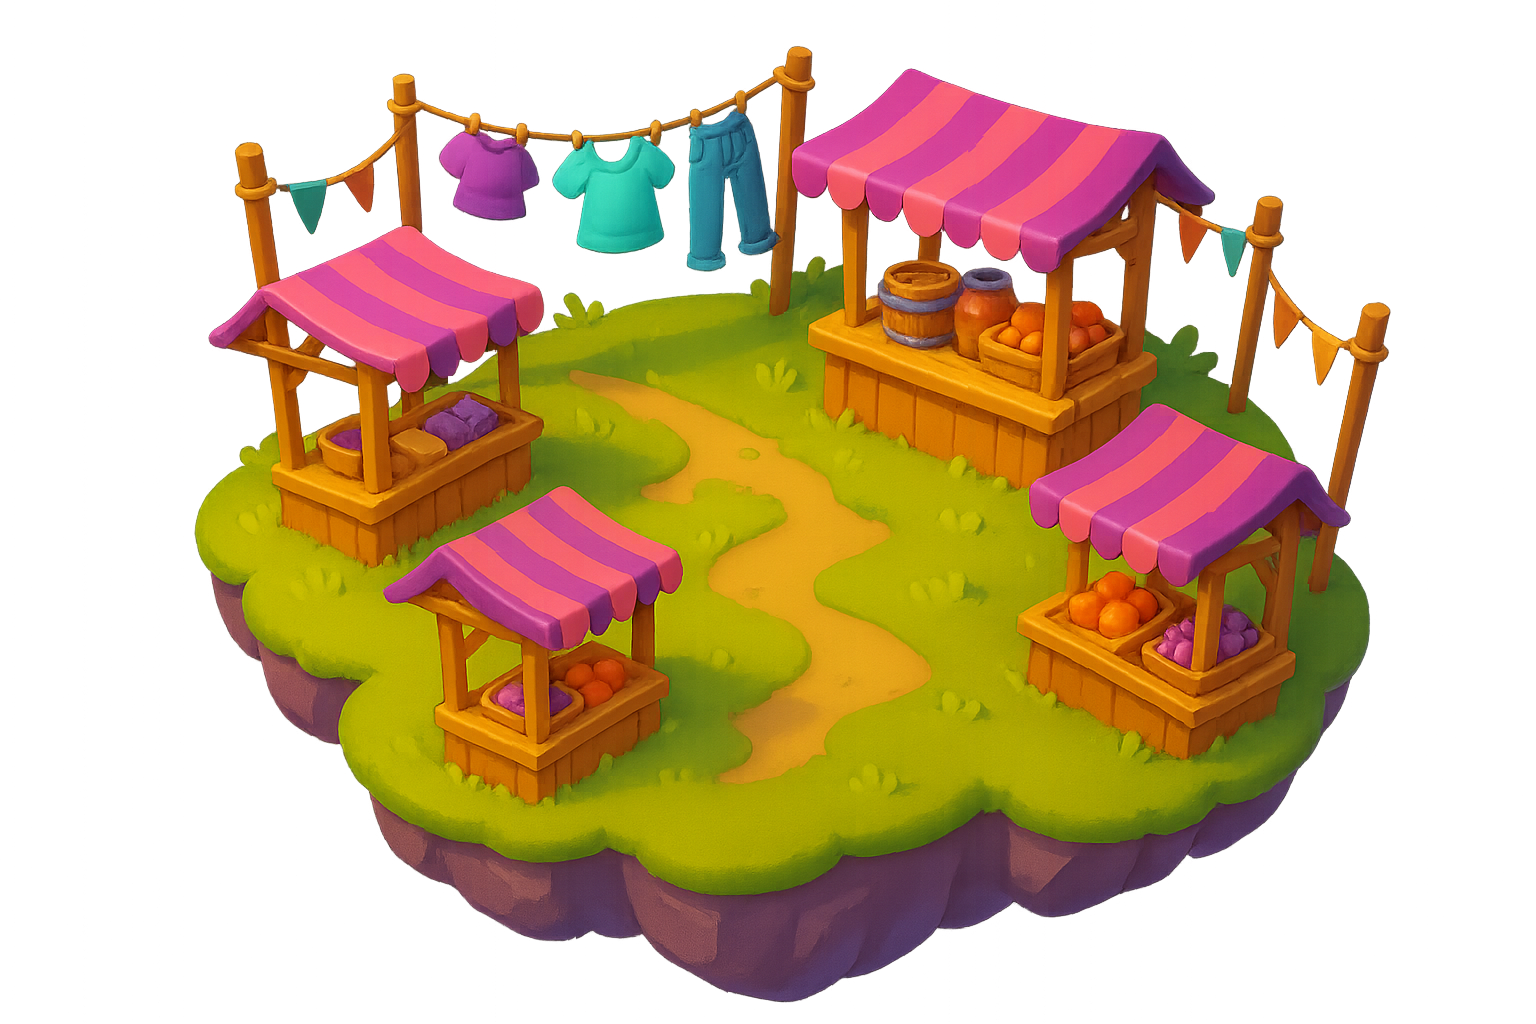
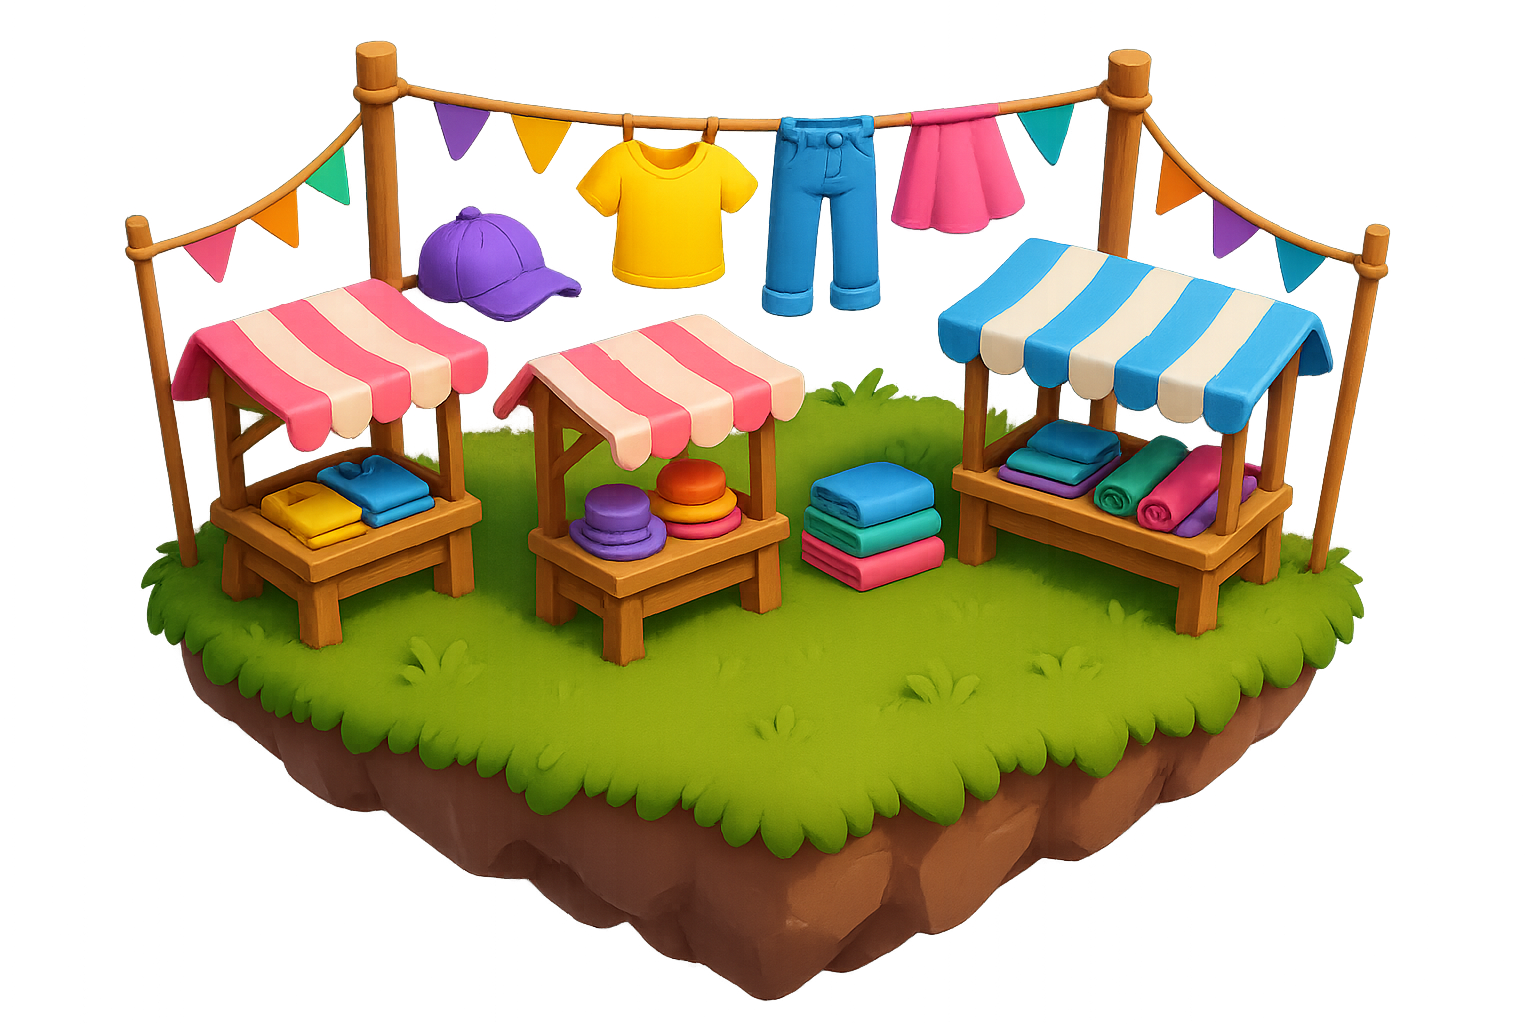
Сгенерировать все картинки карты и нарезать пергамент на 4 обрывка
Семь картинок по промптам из docs/WowSpeak_карта_ТЗ.md §3, стиль утверждён
Анной на пробе острова 1. Скрипты генерации и нарезки положены в tools/,
чтобы картинку можно было переснять, не собирая промпт заново.

Правки промптов против исходных — по факту несоответствия результата:
- остров 1: вещи на верёвке перечислены по порядку, иначе юбка пропадала;
  прилавкам явно запрещена еда;
- общий блок островов: низ острова описан как скала, иначе выходила плоская
  земляная лепёшка;
- остров 3: добавлено требование насыщенных цветов, первая версия вышла блёклой;
- пергамент: роза ветров без букв (генератор подписывал N/W/E/S) и ровно
  четыре острова одной цепочкой.

Праздничный замок сделан правкой закрытого через /v1/images/edits — только так
оба состояния совпадают по масштабу и силуэту.

Обрывки пергамента лежат на полном холсте 1024x1024: наложенные друг на друга
в одной позиции они сходятся пиксель в пиксель, проверено — 0 дырок.

Claude-Session: https://claude.ai/code/session_01F8Ku32rN8SvpondWNMohMi

diff --git a/tools/gen_map_images.py b/tools/gen_map_images.py
@@ -1,0 +1,158 @@
+#!/usr/bin/env python3
+"""Генерация картинок карты «Волшебная страна» через OpenAI Images API.
+
+Промпты — из docs/WowSpeak_карта_ТЗ.md §3. Блок стиля во всех островах
+дословно одинаковый: стиль утверждён Анной на пробе острова 1, менять нельзя.
+Правки допустимы только в описании содержания сцены.
+
+Запуск:  OPENAI_API_KEY=... python3 tools/gen_map_images.py [ключ ...]
+Без аргументов — генерирует всё.
+"""
+import base64, json, os, sys, urllib.error, urllib.request
+from concurrent.futures import ThreadPoolExecutor
+
+# Утверждённый стиль островов — не редактировать.
+ISLAND_STYLE = ("Same floating chunk of earth with grass on top and rock underneath: "
+    "the thick rocky underside is clearly visible below the grass, chunky jagged rock "
+    "tapering downwards to a point, the whole island floating in mid-air. "
+    "Same three-quarter top-down view and top-left lighting. "
+    "Bright 3D rendered cartoon style, Pixar-like, soft rounded glossy shapes, "
+    "vivid saturated colors - violet, pink, gold, turquoise. ")
+NO_TEXT = "No text, no letters, no signs, no numbers, no labels. "
+
+JOBS = {
+    "island-1-fair": dict(size="1536x1024", transparent=True, prompt=(
+        "A small floating fantasy market island: striped awnings, wooden stalls, bunting flags. "
+        "A washing line strung between two wooden poles crosses the island, and colourful "
+        "triangular bunting flags are strung beside it. Four garments hang from the line in a "
+        "row, left to right: first a purple baseball cap, second a yellow T-shirt, third blue "
+        "jeans, and fourth, at the right-hand end of the line, a pink skirt - a short flared "
+        "skirt shaped like a bell, narrow at the waist and wide at the hem, with no legs, "
+        "clearly not trousers. Four garments hanging, not three. "
+        "The stalls display only clothing - folded shirts, stacked hats, rolls of colourful fabric. "
+        "Absolutely no food on the stalls: no fruit, no oranges, no vegetables, no jars, no barrels. "
+        "The island sits on a chunk of earth, grass on top, rough rock underneath, floating in the air. "
+        "Three-quarter top-down view, lighting from the top-left. " + ISLAND_STYLE
+        + NO_TEXT + "No people. Transparent background.")),
+
+    "island-2-mirrors": dict(size="1536x1024", transparent=True, prompt=(
+        "A small floating fantasy island with tall ornate standing mirrors in golden frames "
+        "among soft grass and glowing crystals, sparkling reflections. " + ISLAND_STYLE
+        + NO_TEXT + "No people. Transparent background.")),
+
+    "island-3-friends": dict(size="1536x1024", transparent=True, prompt=(
+        "A small floating fantasy island: a cosy green hill with a treehouse, two small round huts, "
+        "a picnic blanket and a flower meadow. Deep saturated colours: rich green grass, "
+        "a bright pink-and-white checked blanket, a lush violet tree canopy, glossy toy-like "
+        "surfaces with crisp highlights - not pale, not washed out, not painterly. " + ISLAND_STYLE
+        + NO_TEXT + "No people. Transparent background.")),
+
+    "island-4-castle-closed": dict(size="1536x1024", transparent=True, prompt=(
+        "A small floating fantasy castle island: a fairytale castle with pink and violet towers "
+        "and golden roofs, tall closed wooden gates, a winding path leading up to them. "
+        + ISLAND_STYLE + NO_TEXT + "No people, no dragon. Transparent background.")),
+
+    "island-4-castle-festive": dict(size="1536x1024", transparent=True, prompt=(
+        "The same fairytale castle island, now celebrating: the tall gates are wide open with warm "
+        "golden light pouring out, festive garlands and glowing lanterns strung between the towers, "
+        "confetti and sparkles in the air, small fireworks above the roofs. Same pink and violet "
+        "towers with golden roofs, same floating rock island with grass underneath, same "
+        "three-quarter top-down view, same top-left lighting, same scale as the closed castle. "
+        "Bright 3D rendered cartoon style, Pixar-like, glossy soft shapes, vivid saturated colors. "
+        + NO_TEXT + "No characters, no dragon. Transparent background.")),
+
+    "map-background": dict(size="1024x1536", transparent=False, prompt=(
+        "Children's storybook background, empty scene with no objects: a calm turquoise magical sea "
+        "with soft foam swirls, scattered fluffy white clouds, tiny sparkles and stars, warm golden "
+        "light from the top. Bright 3D rendered cartoon style, Pixar-like, soft glossy shapes, "
+        "vivid saturated colors - turquoise, violet, pink, gold. Lots of open empty space in the "
+        "middle of the composition. " + NO_TEXT
+        + "No characters, no buildings, no islands. Vertical, aspect ratio 2:3.")),
+
+    "parchment-map": dict(size="1024x1024", transparent=False, prompt=(
+        "An old treasure map on warm parchment, drawn in a soft children's cartoon style: "
+        "a turquoise sea containing exactly four islands and nothing else - no extra islets, no "
+        "sandbanks, no rocks, four landmasses in total, counted as one, two, three, four. "
+        "A single dotted trail links them in one chain: it starts at the first island, passes "
+        "through the second and the third and ends at the fourth, and every island is touched "
+        "by the trail. The fourth and last island carries a castle. "
+        "a compass rose in one corner, tiny waves and a whale spout. The compass rose is drawn as "
+        "a plain eight-pointed star with no letters and no initials on or around it. "
+        "Warm cream and beige parchment with soft brown ink and gentle watercolour tints of "
+        "turquoise, pink and gold. Flat top-down illustration, even lighting, no drop shadows. "
+        "The illustration bleeds off all four edges of the square: the sea reaches every edge, "
+        "with no border, no frame, no outline and no empty margin around the drawing. "
+        + NO_TEXT + "No writing of any kind anywhere in the image, not even on the compass. "
+        "Square, aspect ratio 1:1.")),
+}
+
+OUT_DIR = os.path.join(os.path.dirname(os.path.dirname(os.path.abspath(__file__))), "assets", "map")
+
+
+def generate(key):
+    job = JOBS[key]
+    body = {"model": "gpt-image-1", "prompt": job["prompt"], "size": job["size"],
+            "quality": "high", "output_format": "png", "n": 1}
+    if job["transparent"]:
+        body["background"] = "transparent"
+    req = urllib.request.Request("https://api.openai.com/v1/images/generations",
+        data=json.dumps(body).encode(),
+        headers={"Authorization": "Bearer " + os.environ["OPENAI_API_KEY"],
+                 "Content-Type": "application/json"})
+    try:
+        r = json.load(urllib.request.urlopen(req, timeout=900))
+    except urllib.error.HTTPError as e:
+        return key, "ОШИБКА HTTP %s: %s" % (e.code, e.read().decode()[:300])
+    path = os.path.join(OUT_DIR, key + ".png")
+    os.makedirs(OUT_DIR, exist_ok=True)
+    with open(path, "wb") as f:
+        f.write(base64.b64decode(r["data"][0]["b64_json"]))
+    return key, "готово: %s (%.1f МБ)" % (path, os.path.getsize(path) / 1e6)
+
+
+FESTIVE_EDIT_PROMPT = (
+    "Keep this exact castle island unchanged in shape, size, position, colours and art style - "
+    "the same pink and violet towers, the same grass, the same jagged rocky underside, the same "
+    "three-quarter top-down view and top-left lighting, the same glossy 3D cartoon look. "
+    "Only add a celebration: open the tall wooden gates wide so warm golden light pours out of the "
+    "doorway, string festive garlands and glowing lanterns between the towers, and add confetti, "
+    "sparkles and small fireworks in the air above the roofs. "
+    + NO_TEXT + "No characters, no dragon, no people. Keep the background fully transparent.")
+
+
+def edit_festive():
+    """Праздничный замок = закрытый замок + правка, чтобы остров совпал один в один."""
+    src = os.path.join(OUT_DIR, "island-4-castle-closed.png")
+    fields = {"model": "gpt-image-1", "prompt": FESTIVE_EDIT_PROMPT, "size": "1536x1024",
+              "quality": "high", "background": "transparent", "input_fidelity": "high", "n": "1"}
+    boundary = "----wowspeak" + base64.b16encode(os.urandom(8)).decode()
+    body = b""
+    for k, v in fields.items():
+        body += ("--%s\r\nContent-Disposition: form-data; name=\"%s\"\r\n\r\n%s\r\n"
+                 % (boundary, k, v)).encode()
+    body += ("--%s\r\nContent-Disposition: form-data; name=\"image\"; filename=\"castle.png\"\r\n"
+             "Content-Type: image/png\r\n\r\n" % boundary).encode()
+    body += open(src, "rb").read() + ("\r\n--%s--\r\n" % boundary).encode()
+    req = urllib.request.Request("https://api.openai.com/v1/images/edits", data=body,
+        headers={"Authorization": "Bearer " + os.environ["OPENAI_API_KEY"],
+                 "Content-Type": "multipart/form-data; boundary=" + boundary})
+    try:
+        r = json.load(urllib.request.urlopen(req, timeout=900))
+    except urllib.error.HTTPError as e:
+        return "island-4-castle-festive", "ОШИБКА HTTP %s: %s" % (e.code, e.read().decode()[:300])
+    path = os.path.join(OUT_DIR, "island-4-castle-festive.png")
+    with open(path, "wb") as f:
+        f.write(base64.b64decode(r["data"][0]["b64_json"]))
+    return "island-4-castle-festive", "готово: %s (%.1f МБ)" % (path, os.path.getsize(path) / 1e6)
+
+
+if __name__ == "__main__":
+    keys = sys.argv[1:] or list(JOBS)
+    if "festive" in keys:
+        print(*edit_festive()); sys.exit()
+    bad = [k for k in keys if k not in JOBS]
+    if bad:
+        sys.exit("неизвестные ключи: %s; доступны: %s" % (bad, list(JOBS)))
+    with ThreadPoolExecutor(max_workers=3) as pool:
+        for key, msg in pool.map(generate, keys):
+            print(key, "->", msg)

diff --git a/tools/cut_parchment.py b/tools/cut_parchment.py
@@ -1,0 +1,77 @@
+#!/usr/bin/env python3
+"""Нарезка пергамента на 4 обрывка с рваными краями (ТЗ §3).
+
+Куски режутся двумя рваными линиями — вертикальной и горизонтальной. Каждый кусок
+сохраняется на полном холсте 1024x1024, прозрачном вокруг обрывка: если положить
+все четыре друг на друга в одной позиции, карта сходится пиксель в пиксель.
+Seed фиксирован, повторный запуск даёт тот же результат.
+"""
+import os, random
+from PIL import Image, ImageDraw
+
+ROOT = os.path.dirname(os.path.dirname(os.path.abspath(__file__)))
+SRC = os.path.join(ROOT, "assets", "map", "parchment-map.png")
+NAMES = ["piece-1-tl", "piece-2-tr", "piece-3-bl", "piece-4-br"]
+
+
+def jagged(length, centre, rnd, step=14, amp=26, spike=9):
+    """Рваная линия: крупные зубцы плюс мелкие волокна бумаги."""
+    pts, pos, val = [], 0, centre
+    while pos < length:
+        val = max(centre - amp * 2, min(centre + amp * 2, val + rnd.uniform(-amp, amp)))
+        pts.append((pos, val + rnd.uniform(-spike, spike)))
+        pos += rnd.randint(step // 2, step)
+    pts.append((length, centre + rnd.uniform(-spike, spike)))
+    return pts
+
+
+def half_mask(size, vertical, rnd):
+    """Маска половины холста, отрезанной рваной линией (левая или верхняя)."""
+    w, h = size
+    m = Image.new("L", size, 0)
+    d = ImageDraw.Draw(m)
+    if vertical:
+        line = jagged(h, w / 2, rnd)
+        poly = [(0, 0)] + [(x, y) for y, x in line] + [(0, h)]
+    else:
+        line = jagged(w, h / 2, rnd)
+        poly = [(0, 0)] + list(line) + [(w, 0)]
+    d.polygon(poly, fill=255)
+    return m
+
+
+def main():
+    src = Image.open(SRC).convert("RGBA")
+    rnd = random.Random(20260916)
+    left = half_mask(src.size, True, rnd)
+    top = half_mask(src.size, False, rnd)
+    from PIL import ImageChops
+    right, bottom = ImageChops.invert(left), ImageChops.invert(top)
+    quadrants = [ImageChops.multiply(left, top), ImageChops.multiply(right, top),
+                 ImageChops.multiply(left, bottom), ImageChops.multiply(right, bottom)]
+    out_dir = os.path.join(ROOT, "assets", "map")
+    for name, mask in zip(NAMES, quadrants):
+        # края намеренно без размытия: маски соседних кусков строго дополняют друг друга,
+        # иначе на стыке собранной карты светится полупрозрачный шов
+        alpha = ImageChops.multiply(src.getchannel("A"), mask)
+        # цвет под прозрачной частью обнуляем: PNG хранит его и без этого кусок весит
+        # столько же, сколько целая карта
+        piece = Image.new("RGBA", src.size, (0, 0, 0, 0))
+        piece.paste(src, (0, 0), alpha)
+        piece.putalpha(alpha)
+        path = os.path.join(out_dir, "map-%s.png" % name)
+        piece.save(path, optimize=True)
+        bbox = piece.getbbox()
+        print("%s -> %s, занятая область %s" % (name, path, bbox))
+
+    # контрольная сборка: четыре куска обратно в целую карту
+    check = Image.new("RGBA", src.size, (0, 0, 0, 0))
+    for name in NAMES:
+        check.alpha_composite(Image.open(os.path.join(out_dir, "map-%s.png" % name)))
+    holes = sum(check.getchannel("A").histogram()[:250])
+    print("дырок после сборки (пикселей с alpha<250): %d" % holes)
+    check.convert("RGB").save(os.path.join(ROOT, "assets", "map", "parchment-reassembled.png"))
+
+
+if __name__ == "__main__":
+    main()
